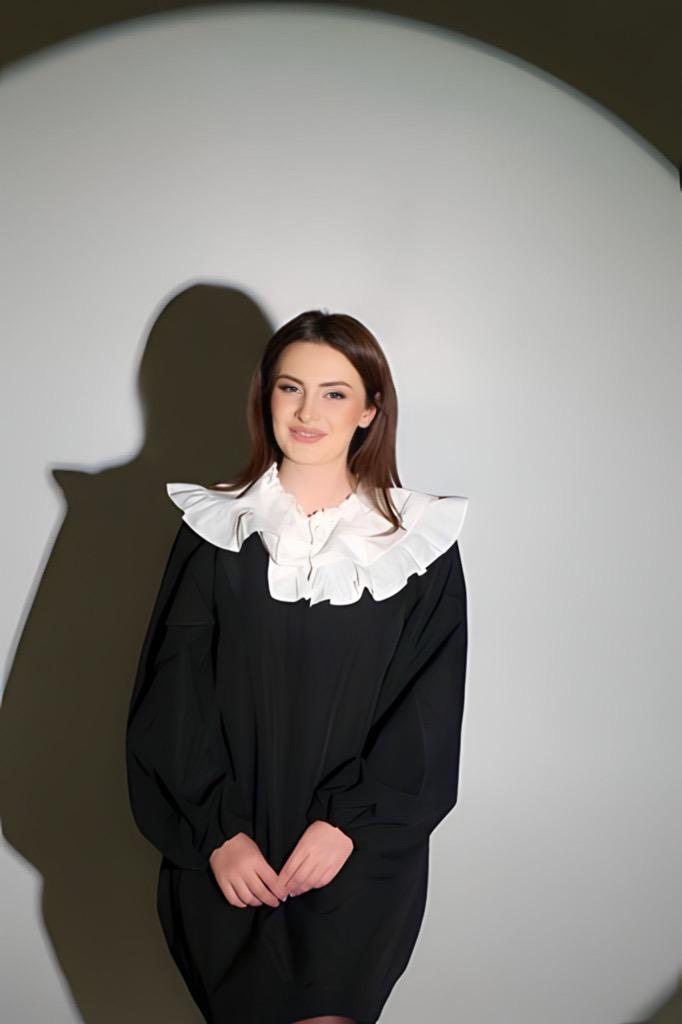
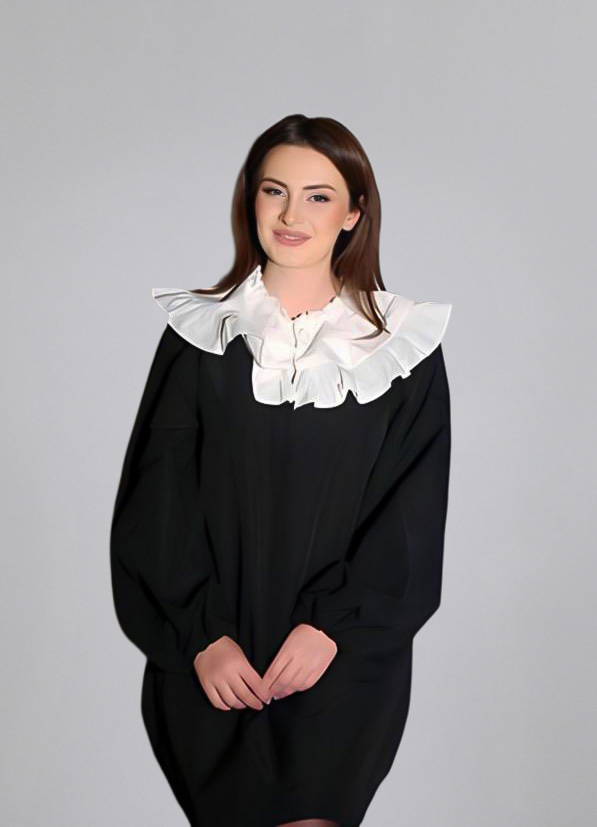
Text bugs fixed

diff --git a/src/app/(main)/page.tsx b/src/app/(main)/page.tsx
@@ -43,14 +43,14 @@ export default function Home() {
     },
     {
       id: 2,
+      image: "/lawyers/armen-baghdasaryan.jpg",
       name: members("memberNames.1"),
-      image: "/lawyers/anna.JPG",
       description: "lorem ipsum",
     },
     {
       id: 3,
       name: members("memberNames.2"),
-      image: "/lawyers/armen-baghdasaryan.jpg",
+      image: "/lawyers/anna.JPG",
       description: "lorem ipsum",
     },
   ];

diff --git a/src/app/assets/svg.tsx b/src/app/assets/svg.tsx
@@ -135,8 +135,8 @@ export const logo = (
         y2="177.296"
         gradientUnits="userSpaceOnUse"
       >
-        <stop stopColor="#BC1419" />
-        <stop offset="1" stopColor="#F51E25" />
+        <stop stopColor="#fff" />
+        <stop offset="1" stopColor="#fff" />
       </linearGradient>
       <linearGradient
         id="paint1_linear_39_36"
